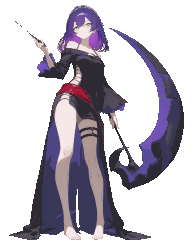
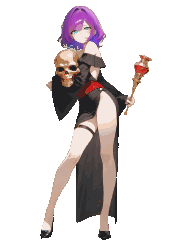
★★ §161.13 6차 — 잔여 14장 전부 교체 (프롬프트를 클래스별로 다시 씀)
- 검수 워크플로가 raw·컷·적용본을 보고 tags/pose/neg/seed 를 다시 썼다 (buildClassPrompt override)
- 단검·석궁·철퇴·완드 계열이 Danbooru 실존 태그(knife·kunai·reverse grip·crossbow) + 보조무기 삭제로 통과
- 빨간 옷 클래스는 머리가 자홍으로 끌려 표식이 못 잡음 → 부정 magenta hair + seed 재선정
- 머리 가중을 extra 에 겹치면 그림이 붕괴한다 (stormcaller·lichlord_apex 사고)

diff --git a/src/art/illust_manifest.js b/src/art/illust_manifest.js
@@ -67,10 +67,10 @@ export const ILLUST_PNG = {
   illust_inquisitor: { file: 'art/illust/illust_inquisitor.png', w: 192, h: 240, ax: 73, ay: 239, eyeBox: [77, 29, 91, 38], marker: { hair: [255, 300], eye: [165, 200] }, roles: ['hair', 'eye'] },
   illust_inquisitor_abyss: { file: 'art/illust/illust_inquisitor_abyss.png', w: 192, h: 240, ax: 130, ay: 239, eyeBox: [92, 21, 97, 26], marker: { hair: [255, 300], eye: [165, 200] }, roles: ['hair', 'eye'] },
   illust_inquisitor_apex: { file: 'art/illust/illust_inquisitor_apex.png', w: 192, h: 240, ax: 92, ay: 239, eyeBox: [75, 21, 90, 29], marker: { hair: [255, 300], eye: [165, 200] }, roles: ['hair', 'eye'] },
-  illust_knight: { file: 'art/illust/illust_knight.png', w: 192, h: 240, ax: 81, ay: 239, eyeBox: [77, 20, 82, 24], marker: { hair: [255, 300], eye: [165, 200] }, roles: ['hair', 'eye'] },
-  illust_lichlord: { file: 'art/illust/illust_lichlord.png', w: 192, h: 240, ax: 38, ay: 239, marker: { hair: [255, 300], eye: [165, 200] }, roles: ['hair'] },
+  illust_knight: { file: 'art/illust/illust_knight.png', w: 192, h: 240, ax: 70, ay: 239, eyeBox: [94, 25, 108, 32], marker: { hair: [255, 300], eye: [165, 200] }, roles: ['hair', 'eye'] },
+  illust_lichlord: { file: 'art/illust/illust_lichlord.png', w: 192, h: 240, ax: 63, ay: 239, eyeBox: [100, 34, 104, 38], marker: { hair: [255, 300], eye: [165, 200] }, roles: ['hair', 'eye'] },
   illust_lichlord_abyss: { file: 'art/illust/illust_lichlord_abyss.png', w: 192, h: 240, ax: 115, ay: 239, eyeBox: [74, 20, 90, 30], marker: { hair: [255, 300], eye: [165, 200] }, roles: ['hair', 'eye'] },
-  illust_lichlord_apex: { file: 'art/illust/illust_lichlord_apex.png', w: 192, h: 240, ax: 124, ay: 239, eyeBox: [75, 34, 79, 38], marker: { hair: [255, 300], eye: [165, 200] }, roles: ['hair', 'eye'] },
+  illust_lichlord_apex: { file: 'art/illust/illust_lichlord_apex.png', w: 192, h: 240, ax: 139, ay: 239, eyeBox: [101, 33, 105, 37], marker: { hair: [255, 300], eye: [165, 200] }, roles: ['hair', 'eye'] },
   illust_madgeneral: { file: 'art/illust/illust_madgeneral.png', w: 192, h: 240, ax: 43, ay: 239, eyeBox: [69, 23, 83, 31], marker: { hair: [255, 300], eye: [165, 200] }, roles: ['hair', 'eye'] },
   illust_madgeneral_abyss: { file: 'art/illust/illust_madgeneral_abyss.png', w: 192, h: 240, ax: 113, ay: 239, eyeBox: [50, 35, 55, 40], marker: { hair: [255, 300], eye: [165, 200] }, roles: ['hair', 'eye'] },
   illust_madgeneral_apex: { file: 'art/illust/illust_madgeneral_apex.png', w: 192, h: 240, ax: 111, ay: 239, eyeBox: [73, 24, 90, 32], marker: { hair: [255, 300], eye: [165, 200] }, roles: ['hair', 'eye'] },
@@ -78,8 +78,8 @@ export const ILLUST_PNG = {
   illust_masterarcher_abyss: { file: 'art/illust/illust_masterarcher_abyss.png', w: 192, h: 240, ax: 103, ay: 239, marker: { hair: [255, 300], eye: [165, 200] }, roles: ['hair'] },
   illust_masterarcher_apex: { file: 'art/illust/illust_masterarcher_apex.png', w: 192, h: 240, ax: 65, ay: 239, eyeBox: [70, 27, 75, 32], marker: { hair: [255, 300], eye: [165, 200] }, roles: ['hair', 'eye'] },
   illust_monk: { file: 'art/illust/illust_monk.png', w: 192, h: 240, ax: 161, ay: 239, marker: { hair: [255, 300], eye: [165, 200] }, roles: ['hair'] },
-  illust_necromancer: { file: 'art/illust/illust_necromancer.png', w: 192, h: 240, ax: 84, ay: 239, eyeBox: [75, 23, 91, 30], marker: { hair: [255, 300], eye: [165, 200] }, roles: ['hair', 'eye'] },
-  illust_oathshield: { file: 'art/illust/illust_oathshield.png', w: 192, h: 240, ax: 135, ay: 239, eyeBox: [87, 25, 92, 29], marker: { hair: [255, 300], eye: [165, 200] }, roles: ['hair', 'eye'] },
+  illust_necromancer: { file: 'art/illust/illust_necromancer.png', w: 192, h: 240, ax: 104, ay: 239, eyeBox: [73, 29, 78, 33], marker: { hair: [255, 300], eye: [165, 200] }, roles: ['hair', 'eye'] },
+  illust_oathshield: { file: 'art/illust/illust_oathshield.png', w: 192, h: 240, ax: 138, ay: 239, eyeBox: [101, 28, 120, 37], marker: { hair: [255, 300], eye: [165, 200] }, roles: ['hair', 'eye'] },
   illust_oathshield_abyss: { file: 'art/illust/illust_oathshield_abyss.png', w: 192, h: 240, ax: 138, ay: 239, marker: { hair: [255, 300], eye: [165, 200] }, roles: ['hair'] },
   illust_oathshield_apex: { file: 'art/illust/illust_oathshield_apex.png', w: 192, h: 240, ax: 75, ay: 239, eyeBox: [79, 26, 84, 31], marker: { hair: [255, 300], eye: [165, 200] }, roles: ['hair', 'eye'] },
   illust_outlaw: { file: 'art/illust/illust_outlaw.png', w: 192, h: 240, ax: 134, ay: 239, marker: { hair: [255, 300], eye: [165, 200] }, roles: ['hair'] },
@@ -93,26 +93,26 @@ export const ILLUST_PNG = {
   illust_reaper: { file: 'art/illust/illust_reaper.png', w: 192, h: 240, ax: 104, ay: 239, marker: { hair: [255, 300], eye: [165, 200] }, roles: ['hair'] },
   illust_reaper_abyss: { file: 'art/illust/illust_reaper_abyss.png', w: 192, h: 240, ax: 52, ay: 239, marker: { hair: [255, 300], eye: [165, 200] }, roles: ['hair'] },
   illust_reaper_apex: { file: 'art/illust/illust_reaper_apex.png', w: 192, h: 240, ax: 131, ay: 239, eyeBox: [94, 25, 99, 29], marker: { hair: [255, 300], eye: [165, 200] }, roles: ['hair', 'eye'] },
-  illust_rogue: { file: 'art/illust/illust_rogue.png', w: 192, h: 240, ax: 110, ay: 239, eyeBox: [78, 26, 82, 30], marker: { hair: [255, 300], eye: [165, 200] }, roles: ['hair', 'eye'] },
-  illust_shadowarcher: { file: 'art/illust/illust_shadowarcher.png', w: 192, h: 240, ax: 105, ay: 239, eyeBox: [66, 24, 81, 32], marker: { hair: [255, 300], eye: [165, 200] }, roles: ['hair', 'eye'] },
+  illust_rogue: { file: 'art/illust/illust_rogue.png', w: 192, h: 240, ax: 48, ay: 239, marker: { hair: [255, 300], eye: [165, 200] }, roles: ['hair'] },
+  illust_shadowarcher: { file: 'art/illust/illust_shadowarcher.png', w: 192, h: 240, ax: 91, ay: 239, eyeBox: [108, 24, 113, 28], marker: { hair: [255, 300], eye: [165, 200] }, roles: ['hair', 'eye'] },
   illust_shadowarcher_abyss: { file: 'art/illust/illust_shadowarcher_abyss.png', w: 192, h: 240, ax: 80, ay: 239, eyeBox: [73, 24, 113, 48], marker: { hair: [255, 300], eye: [165, 200] }, roles: ['hair', 'eye'] },
   illust_shadowarcher_apex: { file: 'art/illust/illust_shadowarcher_apex.png', w: 192, h: 240, ax: 135, ay: 239, eyeBox: [99, 25, 104, 29], marker: { hair: [255, 300], eye: [165, 200] }, roles: ['hair', 'eye'] },
-  illust_shadowblade: { file: 'art/illust/illust_shadowblade.png', w: 192, h: 240, ax: 103, ay: 239, eyeBox: [72, 22, 88, 30], marker: { hair: [255, 300], eye: [165, 200] }, roles: ['hair', 'eye'] },
+  illust_shadowblade: { file: 'art/illust/illust_shadowblade.png', w: 192, h: 240, ax: 103, ay: 239, eyeBox: [97, 27, 103, 32], marker: { hair: [255, 300], eye: [165, 200] }, roles: ['hair', 'eye'] },
   illust_shadowblade_abyss: { file: 'art/illust/illust_shadowblade_abyss.png', w: 192, h: 240, ax: 134, ay: 239, eyeBox: [87, 22, 102, 33], marker: { hair: [255, 300], eye: [165, 200] }, roles: ['hair', 'eye'] },
-  illust_shadowblade_apex: { file: 'art/illust/illust_shadowblade_apex.png', w: 192, h: 240, ax: 57, ay: 239, marker: { hair: [255, 300], eye: [165, 200] }, roles: ['hair'] },
+  illust_shadowblade_apex: { file: 'art/illust/illust_shadowblade_apex.png', w: 192, h: 240, ax: 100, ay: 239, eyeBox: [94, 36, 112, 44], marker: { hair: [255, 300], eye: [165, 200] }, roles: ['hair', 'eye'] },
   illust_shieldman: { file: 'art/illust/illust_shieldman.png', w: 192, h: 240, ax: 129, ay: 239, eyeBox: [94, 22, 99, 27], marker: { hair: [255, 300], eye: [165, 200] }, roles: ['hair', 'eye'] },
   illust_skylancer: { file: 'art/illust/illust_skylancer.png', w: 192, h: 240, ax: 94, ay: 239, eyeBox: [81, 37, 98, 43], marker: { hair: [255, 300], eye: [165, 200] }, roles: ['hair', 'eye'] },
   illust_skylancer_abyss: { file: 'art/illust/illust_skylancer_abyss.png', w: 192, h: 240, ax: 115, ay: 239, eyeBox: [90, 43, 94, 47], marker: { hair: [255, 300], eye: [165, 200] }, roles: ['hair', 'eye'] },
   illust_skylancer_apex: { file: 'art/illust/illust_skylancer_apex.png', w: 192, h: 240, ax: 133, ay: 239, eyeBox: [86, 34, 101, 42], marker: { hair: [255, 300], eye: [165, 200] }, roles: ['hair', 'eye'] },
   illust_skysplitter: { file: 'art/illust/illust_skysplitter.png', w: 192, h: 240, ax: 131, ay: 239, eyeBox: [94, 21, 99, 25], marker: { hair: [255, 300], eye: [165, 200] }, roles: ['hair', 'eye'] },
   illust_skysplitter_abyss: { file: 'art/illust/illust_skysplitter_abyss.png', w: 192, h: 240, ax: 130, ay: 239, eyeBox: [82, 21, 95, 31], marker: { hair: [255, 300], eye: [165, 200] }, roles: ['hair', 'eye'] },
-  illust_skysplitter_apex: { file: 'art/illust/illust_skysplitter_apex.png', w: 192, h: 240, ax: 70, ay: 239, eyeBox: [78, 28, 94, 35], marker: { hair: [255, 300], eye: [165, 200] }, roles: ['hair', 'eye'] },
+  illust_skysplitter_apex: { file: 'art/illust/illust_skysplitter_apex.png', w: 192, h: 240, ax: 133, ay: 239, eyeBox: [70, 44, 87, 49], marker: { hair: [255, 300], eye: [165, 200] }, roles: ['hair', 'eye'] },
   illust_sniper: { file: 'art/illust/illust_sniper.png', w: 192, h: 240, ax: 136, ay: 239, eyeBox: [102, 24, 108, 29], marker: { hair: [255, 300], eye: [165, 200] }, roles: ['hair', 'eye'] },
   illust_spearman: { file: 'art/illust/illust_spearman.png', w: 192, h: 240, ax: 136, ay: 239, eyeBox: [85, 25, 101, 33], marker: { hair: [255, 300], eye: [165, 200] }, roles: ['hair', 'eye'] },
-  illust_spiritranger: { file: 'art/illust/illust_spiritranger.png', w: 192, h: 240, ax: 80, ay: 239, marker: { hair: [255, 300], eye: [165, 200] }, roles: ['hair'] },
-  illust_spiritranger_abyss: { file: 'art/illust/illust_spiritranger_abyss.png', w: 192, h: 240, ax: 85, ay: 239, eyeBox: [83, 33, 87, 37], marker: { hair: [255, 300], eye: [165, 200] }, roles: ['hair', 'eye'] },
+  illust_spiritranger: { file: 'art/illust/illust_spiritranger.png', w: 192, h: 240, ax: 128, ay: 239, eyeBox: [99, 35, 115, 40], marker: { hair: [255, 300], eye: [165, 200] }, roles: ['hair', 'eye'] },
+  illust_spiritranger_abyss: { file: 'art/illust/illust_spiritranger_abyss.png', w: 192, h: 240, ax: 119, ay: 239, eyeBox: [99, 28, 104, 33], marker: { hair: [255, 300], eye: [165, 200] }, roles: ['hair', 'eye'] },
   illust_spiritranger_apex: { file: 'art/illust/illust_spiritranger_apex.png', w: 192, h: 240, ax: 72, ay: 239, eyeBox: [68, 26, 82, 35], marker: { hair: [255, 300], eye: [165, 200] }, roles: ['hair', 'eye'] },
-  illust_stormcaller: { file: 'art/illust/illust_stormcaller.png', w: 192, h: 240, ax: 60, ay: 239, marker: { hair: [255, 300], eye: [165, 200] }, roles: ['hair'] },
+  illust_stormcaller: { file: 'art/illust/illust_stormcaller.png', w: 192, h: 240, ax: 117, ay: 239, eyeBox: [105, 37, 109, 41], marker: { hair: [255, 300], eye: [165, 200] }, roles: ['hair', 'eye'] },
   illust_stormcaller_abyss: { file: 'art/illust/illust_stormcaller_abyss.png', w: 192, h: 240, ax: 71, ay: 239, eyeBox: [61, 42, 108, 50], marker: { hair: [255, 300], eye: [165, 200] }, roles: ['hair', 'eye'] },
   illust_stormcaller_apex: { file: 'art/illust/illust_stormcaller_apex.png', w: 192, h: 240, ax: 86, ay: 239, eyeBox: [81, 27, 86, 32], marker: { hair: [255, 300], eye: [165, 200] }, roles: ['hair', 'eye'] },
   illust_swordgod: { file: 'art/illust/illust_swordgod.png', w: 192, h: 240, ax: 139, ay: 239, eyeBox: [97, 25, 110, 33], marker: { hair: [255, 300], eye: [165, 200] }, roles: ['hair', 'eye'] },
@@ -122,5 +122,5 @@ export const ILLUST_PNG = {
   illust_swordsman: { file: 'art/illust/illust_swordsman.png', w: 192, h: 240, ax: 125, ay: 239, eyeBox: [89, 22, 95, 28], marker: { hair: [255, 300], eye: [165, 200] }, roles: ['hair', 'eye'] },
   illust_venomfang: { file: 'art/illust/illust_venomfang.png', w: 192, h: 240, ax: 128, ay: 239, eyeBox: [71, 23, 77, 28], marker: { hair: [255, 300], eye: [165, 200] }, roles: ['hair', 'eye'] },
   illust_venomfang_abyss: { file: 'art/illust/illust_venomfang_abyss.png', w: 192, h: 240, ax: 84, ay: 239, eyeBox: [77, 21, 92, 30], marker: { hair: [255, 300], eye: [165, 200] }, roles: ['hair', 'eye'] },
-  illust_venomfang_apex: { file: 'art/illust/illust_venomfang_apex.png', w: 192, h: 240, ax: 120, ay: 239, eyeBox: [88, 29, 92, 33], marker: { hair: [255, 300], eye: [165, 200] }, roles: ['hair', 'eye'] },
+  illust_venomfang_apex: { file: 'art/illust/illust_venomfang_apex.png', w: 192, h: 240, ax: 82, ay: 239, eyeBox: [76, 32, 94, 37], marker: { hair: [255, 300], eye: [165, 200] }, roles: ['hair', 'eye'] },
 };
